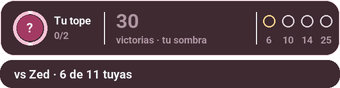
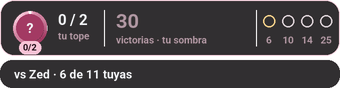
Sombra: la franja con la pastilla del lienzo «Overlay en partida»
Fondo casi negro al 84 % con aro rosa .35, anillo de la regla en
degradado y medalla «1/2» bajo el retrato, tus muertes en grande con
«tu tope» debajo (rojas sobre el tope), anillo de la sombra de 19 con
el minion de 32 y las espadas del ícono del lienzo; divisores de 36.
Las escenas de referencia llevan el anillo que momentos.py manda.

Changed region(s): [[0.0294, 0.1364, 0.2647, 0.6364]]

diff --git a/scripts/lienzo.py b/scripts/lienzo.py
@@ -1,13 +1,13 @@
 """El dibujo de la franja Sombra: una barra de 340×56 (a 1080p) con 3 zonas que nunca cambian de lugar ni de significado
 (regla · sombra · marcas), más el renglón (340×28) o el panel al morir (340×76) pegados debajo. Pillow, a 2× y reducido.
 Recibe la escena de momentos.paso y no decide nada: solo dibuja."""
-from overlay import ROSA, ROSA2, ROJO, SALVIA, ORO, TXT, ETQ, _fuente, _png, _retrato
+from overlay import ROSA, ROSA2, ROJO, SALVIA, ORO, TXT, ETQ, COLORES, _fuente, _png, _retrato
 
 ANCHO, ALTO, RENGLON, PANEL, SEP = 340, 56, 28, 50, 4
 CARTA_W, CARTA_H = 420, 104  # la carta de la pantalla de carga: 3 renglones al centro abajo (4 con el plan de rol: +24)
 CARTA_RENGLON = 24
 Z1, Z2 = 104, 256  # bordes de las zonas: regla 0–104, sombra 104–256, marcas 256–340
-FONDO = (36, 12, 22, 224)  # vino oscuro al 88 %
+FONDO = (11, 7, 9, 214)  # casi negro al 84 %, como la pastilla del lienzo «Overlay en partida»
 GRIS = ETQ
 COL = {"rosa": ROSA2, "oro": ORO, "rojo": ROJO, "salvia": SALVIA, "gris": GRIS}
 
@@ -25,33 +25,39 @@ def pintar(escena, esc=1.0, icono=None):
     S = 2; k = lambda v: round(v * esc * S)
     W, H = round(ANCHO * esc), round(alto(escena) * esc)
     im = Image.new("RGBA", (W * S, H * S), (0, 0, 0, 0)); d = ImageDraw.Draw(im)
-    d.rounded_rectangle((0, 0, W * S - 1, k(ALTO) - 1), radius=k(14), fill=FONDO, outline=ROSA + (60,), width=max(1, k(1)))
-    for x in (Z1, Z2): d.line((k(x), k(12), k(x), k(ALTO - 12)), fill=(255, 255, 255, 28), width=max(1, k(1)))
-    f11, f10 = _fuente(k(11)), _fuente(k(10))
+    d.rounded_rectangle((0, 0, W * S - 1, k(ALTO) - 1), radius=k(14), fill=FONDO, outline=ROSA + (89,), width=max(1, k(1)))
+    for x in (Z1, Z2): d.line((k(x), k(10), k(x), k(ALTO - 10)), fill=(255, 255, 255, 31), width=max(1, k(1)))
+    f10 = _fuente(k(10))
 
     cy, R = k(ALTO / 2), k(17)
     r = escena["regla"]  # 1. Regla: tu retrato con el anillo partido en tramos (render «MIN 14–25»); cada muerte del tramo apaga uno
     cx, n = k(30), max(1, min(5, r["tope"]))
     caja = (cx - R, cy - R, cx + R, cy + R); paso = 360 / n
     d.ellipse(caja, outline=(255, 255, 255, 20), width=k(3))
+    roja = r["color"] == "rojo"; c1, c2 = COLORES.get(r["color"], COLORES["rosa"])
+    vivos = Image.new("L", im.size, 0); dv = ImageDraw.Draw(vivos)  # los tramos vivos, en degradado claro→oscuro como en el lienzo
     for i in range(n):
-        vivo = i < n - r["apagadas"]
-        col = COL.get(r["color"], ROSA2) + (255,) if vivo and r["color"] != "rojo" else ROJO + (217,)
-        d.arc(caja, -90 + i * paso + (6 if n > 1 else 0), -90 + (i + 1) * paso - (6 if n > 1 else 0), fill=col, width=k(3.5))
-    im.alpha_composite(_retrato(escena.get("campeon"), k(26), icono, r["color"] == "rojo"), (cx - k(13), cy - k(13)))  # sobre tu tope: el retrato se apaga
-    lineas = r["etq"].split(" · ") if " · " in r["etq"] else [r["etq"], f"{r['apagadas']}/{r['tope']}"]
+        a0, a1 = -90 + i * paso + (6 if n > 1 else 0), -90 + (i + 1) * paso - (6 if n > 1 else 0)
+        if i < n - r["apagadas"] and not roja: dv.arc(caja, a0, a1, fill=255, width=k(3.5))
+        else: d.arc(caja, a0, a1, fill=ROJO + (217,), width=k(3.5))
+    g = _degradado(c1, c2, caja); im.paste(g, caja[:2], vivos.crop((*caja[:2], caja[0] + g.width, caja[1] + g.height)))
+    im.alpha_composite(_retrato(escena.get("campeon"), k(28), icono, roja), (cx - k(14), cy - k(14)))  # sobre tu tope: el retrato se apaga
+    _medalla(d, f"{r['apagadas']}/{r['tope']}", (cx, cy + k(26)), c1, k)  # pisa solo el borde del anillo  # la medalla bajo el retrato, como el nivel de En vivo
+    lineas = r["etq"].split(" · ") if " · " in r["etq"] else [f"{r['apagadas']} / {r['tope']}", r["etq"].lower()]
     for j, t in enumerate(lineas[:2]):
-        d.text((k(54), cy + k((j - 0.5) * 15)), t, font=f11 if j == 0 else f10, fill=(TXT if j == 0 else GRIS) + (255,), anchor="lm")
+        px = 15 if j == 0 else 10
+        while px > 8 and d.textlength(t, font=_fuente(k(px))) > k(Z1 - 62): px -= 1  # «Nivel -1» no se mete en la zona de la sombra
+        d.text((k(58), cy + k((j - 0.5) * 16)), t, font=_fuente(k(px)), fill=((ROJO if roja else TXT) if j == 0 else GRIS) + (255,), anchor="lm")
 
     s = escena["sombra"]  # 2. Sombra: el minion (o las espadas desde el 14) en un anillo que se llena hacia tu sombra; el número con signo
     x_txt = Z1 + 12
     if s.get("icono"):
-        cx = k(Z1 + 30); caja = (cx - R, cy - R, cx + R, cy + R)
+        cx, R2 = k(Z1 + 30), k(19); caja = (cx - R2, cy - R2, cx + R2, cy + R2)
         d.ellipse(caja, outline=(255, 255, 255, 26), width=k(3))
         if s.get("anillo"): d.arc(caja, -90, -90 + 360 * max(0.0, min(1.0, s["anillo"])), fill=COL.get(s["color"], ROSA2) + (255,), width=k(3))
-        if s["icono"] == "minion" and (ic := _png(icono, "minion", "caster", k(28))): im.alpha_composite(ic, (cx - k(14), cy - k(14)))
-        elif s["icono"] == "espadas" or s["icono"] == "minion":  # sin el render: dos espadas cruzadas
-            for (x1, y1), (x2, y2) in (((-7, 7), (7, -7)), ((-7, -7), (7, 7))): d.line((cx + k(x1), cy + k(y1), cx + k(x2), cy + k(y2)), fill=ROSA2 + (255,), width=k(2))
+        if s["icono"] == "minion" and (ic := _png(icono, "minion", "caster", k(32))): im.alpha_composite(ic, (cx - k(16), cy - k(16)))
+        elif s["icono"] == "espadas" or s["icono"] == "minion":  # sin el render: las espadas cruzadas del lienzo (ícono de 24 en 20 px)
+            for tramo in ESPADAS: d.line([(cx + k((x - 12) * 20 / 24), cy + k((y - 12) * 20 / 24)) for x, y in tramo], fill=ROSA2 + (255,), width=k(1.8), joint="curve")
         x_txt = Z1 + 56
     d.text((k(x_txt), k(21)), s["num"], font=_fuente(k(20)), fill=COL.get(s["color"], TXT) + (255,), anchor="lm")
     px = 10
@@ -59,7 +65,7 @@ def pintar(escena, esc=1.0, icono=None):
     d.text((k(x_txt), k(40)), s["etq"], font=_fuente(k(px)), fill=GRIS + (255,), anchor="lm")
     if s.get("trazo") and not s.get("icono"): _trazo(d, s["trazo"], (k(Z1 + 72), k(13), k(Z2 - 10), k(29)), k)  # sin anillo, el trazo de antes
 
-    roja = r["color"] == "rojo"  # 3. Marcas: solo un elemento rojo a la vez en toda la barra
+    # 3. Marcas: solo un elemento rojo a la vez en toda la barra
     for i, m in enumerate(escena["marcas"]):
         cx, cy, rr = k(Z2 + 13 + i * 19), k(21), k(6)
         caja = (cx - rr, cy - rr, cx + rr, cy + rr)
@@ -85,6 +91,25 @@ def pintar(escena, esc=1.0, icono=None):
     im = im.resize((W, H), Image.LANCZOS)
     if (o := escena.get("opacidad", 1.0)) < 1: im.putalpha(im.getchannel("A").point(lambda a: int(a * o)))
     return im
+
+
+ESPADAS = (((14.5, 17.5), (3, 6), (3, 3), (6, 3), (17.5, 14.5)), ((13, 19), (19, 13)), ((16, 16), (20, 20)),
+           ((14.5, 6.5), (18, 3), (21, 3), (21, 6), (17.5, 9.5)), ((5, 14), (9, 18)))  # el ícono de espadas del lienzo, en su caja de 24
+
+
+def _degradado(c1, c2, caja):
+    """Imagen del tamaño de caja con un degradado diagonal c1→c2 (el linearGradient 0,0→1,1 del lienzo)."""
+    from PIL import Image
+    x0, y0, x1, y1 = caja; mid = tuple((a + b) // 2 for a, b in zip(c1, c2))
+    g = Image.new("RGBA", (2, 2)); g.putdata([c1 + (255,), mid + (255,), mid + (255,), c2 + (255,)])
+    return g.resize((x1 - x0, y1 - y0), Image.BILINEAR)
+
+
+def _medalla(d, t, centro, c1, k):
+    """La medalla de 13 de alto bajo el retrato: texto oscuro sobre el color claro del tramo."""
+    f = _fuente(k(9)); cx, y = centro; w = max(k(18), d.textlength(t, font=f) + k(8)); x0, x1, y0, y1 = cx - w / 2, cx + w / 2, y - k(13), y
+    d.rounded_rectangle((x0, y0, x1, y1), radius=k(7), fill=c1 + (255,))
+    d.text((cx, (y0 + y1) / 2), t, font=f, fill=(36, 17, 26, 255), anchor="mm")
 
 
 def _trazo(d, puntos, caja, k):

diff --git a/pruebas/test_sombra_calidad.py b/pruebas/test_sombra_calidad.py
@@ -22,12 +22,12 @@ TR = [[40, 44], [52, 52], [60, 59], [70, 66], [75, 74]]
 MOMENTOS = {  # una escena fija por momento del plan (las capturas de la Fase 4, sin la carta)
     "arranque": {"regla": R(0, "rosa"), "sombra": {"num": "30", "etq": "victorias · tu sombra", "color": "gris", "trazo": None}, "marcas": M(None, None, None, None),
                  "renglon": "vs Zed · 6 de 11 tuyas"},
-    "linea": {"regla": R(0, "rosa"), "sombra": {"num": "+5", "etq": "CS vs sombra", "color": "salvia", "trazo": TR}, "marcas": M(True, None, None, None)},
-    "sello": {"regla": R(0, "rosa"), "sombra": {"num": "-5", "etq": "CS vs sombra", "color": "oro", "trazo": TR}, "marcas": M(True, False, None, None),
+    "linea": {"regla": R(0, "rosa"), "sombra": {"num": "+5", "etq": "CS vs sombra", "color": "salvia", "trazo": TR, "icono": "minion", "anillo": 0.9}, "marcas": M(True, None, None, None)},
+    "sello": {"regla": R(0, "rosa"), "sombra": {"num": "-5", "etq": "CS vs sombra", "color": "oro", "trazo": TR, "icono": "minion", "anillo": 0.95}, "marcas": M(True, False, None, None),
               "renglon": "Marca 10 · 70 CS · sombra 74", "brillo": 10},
     "compra": {"regla": R(0, "rosa"), "sombra": {"num": "=", "etq": "CS vs sombra", "color": "salvia", "trazo": TR}, "marcas": M(True, None, None, None),
                "renglon": "Primer regreso · sombra: min 3,8"},
-    "peleas": {"regla": R(1, "rosa"), "sombra": {"num": "+12%", "etq": "peleas vs sombra", "color": "salvia", "trazo": [[0.3, 0.35], [0.4, 0.36], [0.45, 0.38]]},
+    "peleas": {"regla": R(1, "rosa"), "sombra": {"num": "+12%", "etq": "peleas vs sombra", "color": "salvia", "trazo": [[0.3, 0.35], [0.4, 0.36], [0.45, 0.38]], "icono": "espadas", "anillo": 1.0},
                "marcas": M(True, True, True, None)},
     "muerto": {"regla": R(2, "oro"), "sombra": {"num": "-8%", "etq": "peleas vs sombra", "color": "oro", "trazo": None}, "marcas": M(True, "sin", True, None),
                "panel": ["Muerte 2 de 2 · tu tope", "Dragones 1–2 · Torres 3–4"]},
